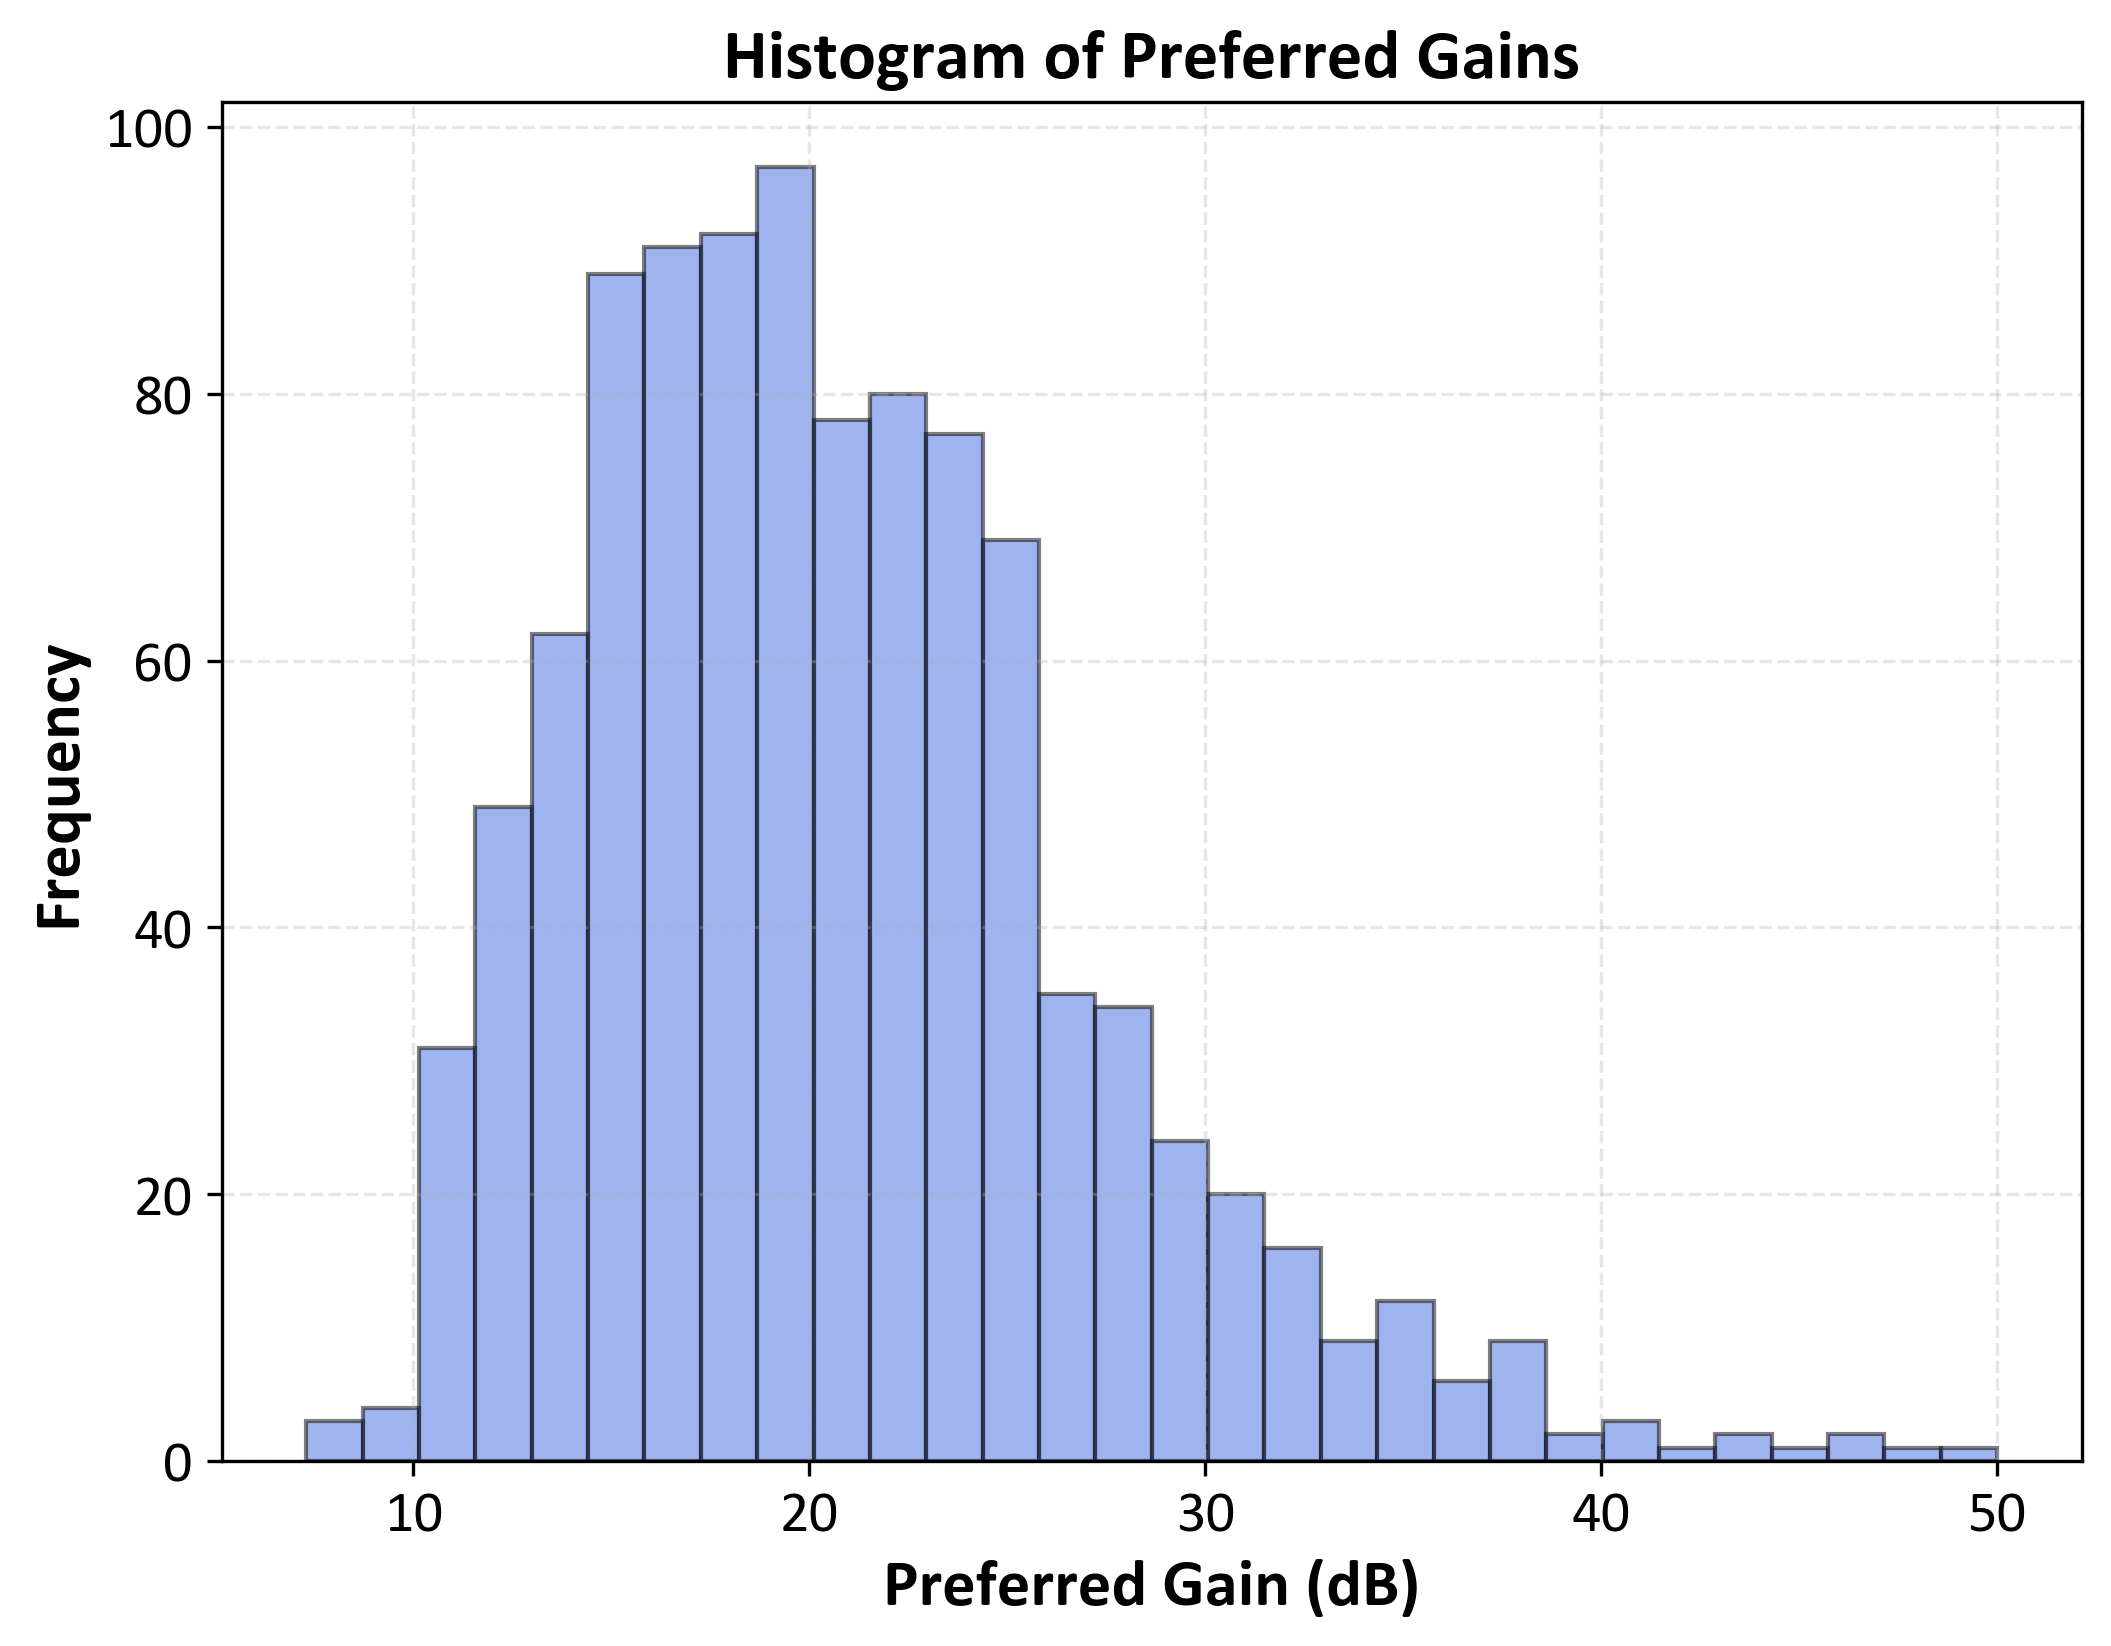
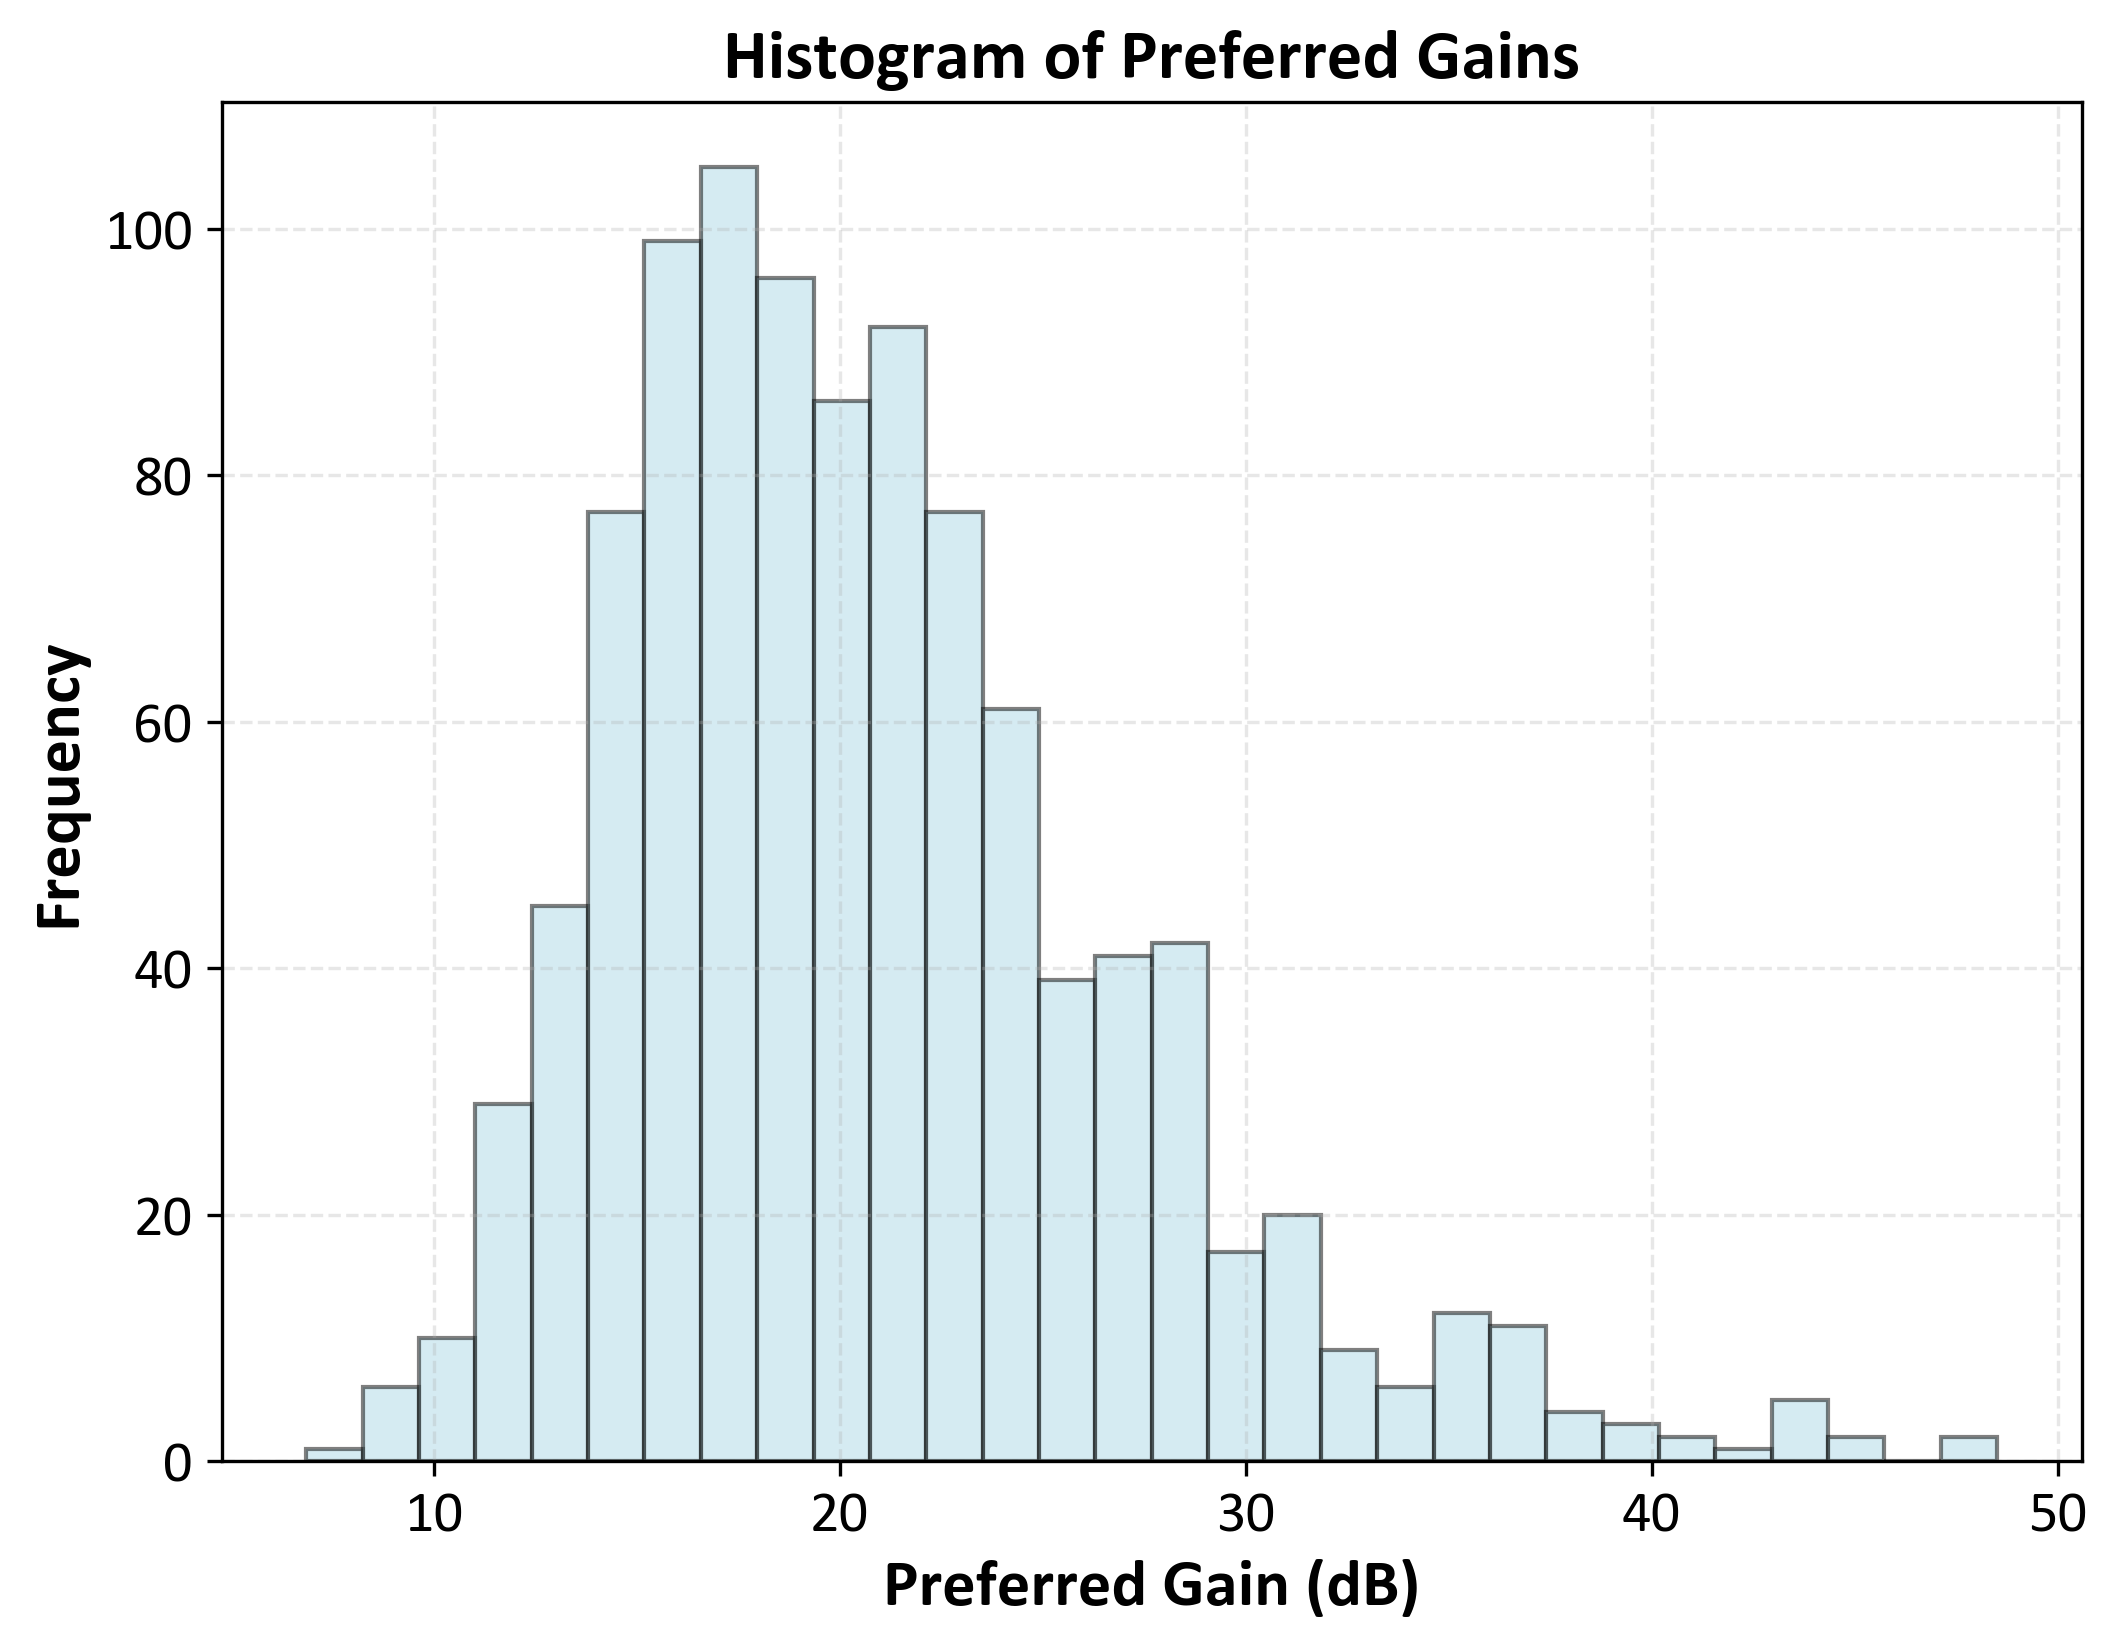
Add files via upload

diff --git a/monte_carlo_gain_adjustment.py b/monte_carlo_gain_adjustment.py
@@ -114,7 +114,7 @@ delta_gain_95 = np.percentile(simulated_gain_adjustments - preferred_gains[:, No
 ########################################################################################################################################################################
 plt.rcParams['font.family'] = 'Calibri'
 plt.figure(figsize=(8, 6))
-plt.hist(preferred_gains, bins=30, color='#4169E1', edgecolor='black', alpha=0.5)
+plt.hist(preferred_gains, bins=30, color='lightblue', edgecolor='black', alpha=0.5)
 plt.title("Histogram of Preferred Gains", fontsize=17, fontweight='bold')
 plt.xlabel("Preferred Gain (dB)", fontsize=16, fontweight='bold')
 plt.ylabel("Frequency", fontsize=16, fontweight='bold')
@@ -133,7 +133,7 @@ plt.show()
 # Plot the results with delta gain
 plt.figure(figsize=(10, 6))
 plt.plot(delta_gain_mean, label="Mean Δ Gain from Preference", color="#4169E1",lw=3)
-plt.fill_between(range(num_adjustments), delta_gain_5, delta_gain_95, color='#87CEFA', alpha=0.2, label="90% Confidence Interval")
+plt.fill_between(range(num_adjustments), delta_gain_5, delta_gain_95, color='lightblue', alpha=0.2, label="90% Confidence Interval")
 plt.title("Monte Carlo Simulation of Adjustments to Preferred Gain", fontsize=18, fontweight='bold')
 plt.xlabel("Number of Adjustments", fontsize=18, fontweight='bold')
 plt.ylabel("Δ Gain (dB)", fontsize=18, fontweight='bold')
